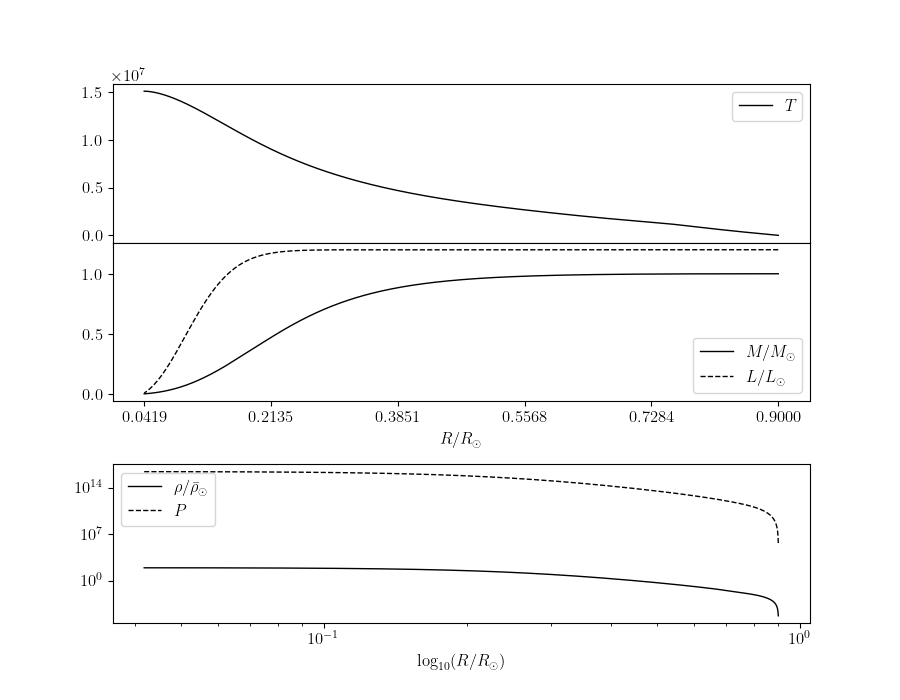
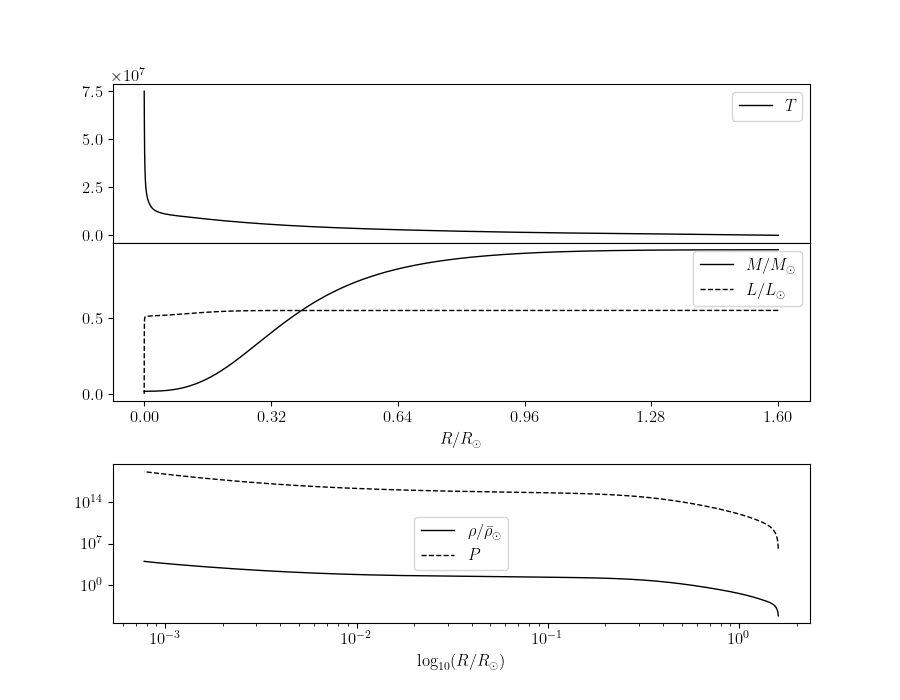
Tried to get CNO in the core, while still having convection in the core.

diff --git a/energy-transport/star_model.py b/energy-transport/star_model.py
@@ -34,7 +34,7 @@ mu = 1. / (2 * X + Y_He3 + (3/4 * Y) + (4/7 * Z_Li7) + (5/7 * Z_Be7) + (4/7 * Z_
 nabla_ad = 2/5 	# Adiabatic temperature gradient for ideal gas
 
 # Initial parameters 
-rho_0 = 1.42e-7 * avgRho_sun * 30
+rho_0 = 1.42e-7 * avgRho_sun * 90
 T_0 = 5770
 P_G = rho_0 / (mu * const.m_u) * const.k * T_0		# Gas pressure 
 P_rad = 4/3 * const.sigma * T_0**4 / const.c 		# Radiative pressure 
@@ -45,7 +45,7 @@ R_0 = R_sun
 
 variable_params = np.array([M_0, R_0, L_0, T_0])
 
-M_fit, R_fit, L_fit, T_fit = variable_params * [1, 0.9, 1.2, .8]
+M_fit, R_fit, L_fit, T_fit = variable_params * [.95, 1.6, .55, 2]
 
 best = Star(M_fit, R_fit, P_0, L_fit, T_fit)
 best.integrate_equtations(p=1e-2, include_cycles=True)
@@ -55,11 +55,15 @@ m, r, P, L, T, rho, nabla_star, nabla_stable, F_rad, F_con, eps, PP1, PP2, PP3, 
 r_plot = r/R_sun
 ticks = np.linspace(r_plot[-1], r_plot[0], 6)
 
-F_con_fraction = F_con / np.sum(F_rad + F_con)
-F_rad_fraction = F_rad / np.sum(F_rad + F_con)
+F_con_fraction = F_con / (F_rad + F_con)
+F_rad_fraction = F_rad / (F_rad + F_con)
 
 eps_max = PP1 + PP2 + PP3 + CNO
-# eps_max += (1 * (eps_max == 0))
+plot_idx = np.where(eps_max != 0)
+PP1_rel = PP1[plot_idx] / eps_max[plot_idx]
+PP2_rel = PP2[plot_idx] / eps_max[plot_idx]
+PP3_rel = PP3[plot_idx] / eps_max[plot_idx]
+CNO_rel = CNO[plot_idx] / eps_max[plot_idx]
 
 L_core = L[-1]/L[0]
 R_core = r[(L < .995 * L[0])][0] / r[0]
@@ -107,17 +111,17 @@ fig.savefig('figures/flux-fraction.pdf')
 fig.savefig('figures/flux-fraction.png')
 
 fig, ax = plt.subplots(figsize=(10, 4))
-ax.plot(r_plot[(eps_max != 0)], np.flip(PP1/eps_max)[(eps_max != 0)], ls='dashed', color='black', label=r'$\epsilon_{PP1}/\epsilon_{max}$')
-ax.plot(r_plot[(eps_max != 0)], np.flip(PP2/eps_max)[(eps_max != 0)], ls='dashdot', color='black', label=r'$\epsilon_{PP2}/\epsilon_{max}$')
-ax.plot(r_plot[(eps_max != 0)], np.flip(PP3/eps_max)[(eps_max != 0)], ls=(0, (5, 10)), color='black', label=r'$\epsilon_{PP3}/\epsilon_{max}$')
-ax.plot(r_plot[(eps_max != 0)], np.flip(CNO/eps_max)[(eps_max != 0)], ls='dotted', color='black', label=r'$\epsilon_{CNO}/\epsilon_{max}$')
-ax.plot(r_plot[(eps_max != 0)], (eps/np.max(eps))[(eps_max != 0)], ls='solid', color='black', label=r'$L/\epsilon_{max}$')
-ax.legend()
-ax.set_xticks(ticks)
+ax.plot(r_plot[plot_idx], PP1_rel, ls='dashed', color='black', label=r'$\epsilon_{PP1}/\epsilon_{max}$')
+ax.plot(r_plot[plot_idx], PP2_rel, ls='dashdot', color='black', label=r'$\epsilon_{PP2}/\epsilon_{max}$')
+ax.plot(r_plot[plot_idx], PP3_rel, ls=(0, (5, 10)), color='black', label=r'$\epsilon_{PP3}/\epsilon_{max}$')
+ax.plot(r_plot[plot_idx], CNO_rel, ls='solid', color='black', label=r'$\epsilon_{CNO}/\epsilon_{max}$')
+ax.plot(r_plot[plot_idx], (eps/np.max(eps))[plot_idx], ls='dotted', color='black', label=r'$\epsilon/\epsilon_{max}$')
 ax2 = ax.twiny()
 ax2.set_xticks(np.linspace(T[0], T[-1], 12))
 ax2.invert_xaxis()
 ax2.set_xlabel('Temperature [K]')
+ax.legend()
+ax.set_xticks(ticks)
 ax.set_xlabel(r'$R/R_\odot$')
 ax.set_ylabel(r'Rel. energy')
 fig.tight_layout()

diff --git a/energy-transport/energy_transport.py b/energy-transport/energy_transport.py
@@ -182,15 +182,15 @@ class Star:
 
 			nabla_stable = 3 * kappa * rho * H_P * L / (64 * const.sigma * T**4 * const.pi * r**2)
 
-		coeffs = [l_m**2/U, 1, K, (self.nabla_ad - nabla_stable)]
-		roots = np.roots(coeffs)
-		real_root_idx = np.where(roots.imag == 0)[0][0]
-		xi = roots[real_root_idx].real
+		# coeffs = [l_m**2/U, 1, K, (self.nabla_ad - nabla_stable)]
+		# roots = np.roots(coeffs)
+		# real_root_idx = np.where(roots.imag == 0)[0][0]
+		# xi = roots[real_root_idx].real
 
-		nabla_star = xi**2 + xi * K + self.nabla_ad
+		# nabla_star = xi**2 + xi * K + self.nabla_ad
 
-		F_rad = 16 * const.sigma * T**4 / (3 * kappa * rho * H_P) * nabla_star
-		F_con = rho * self.c_P * T * np.sqrt(g) * H_P**(-3/2) * (l_m/2)**2 * xi**3
+		# F_rad = 16 * const.sigma * T**4 / (3 * kappa * rho * H_P) * nabla_star
+		# F_con = rho * self.c_P * T * np.sqrt(g) * H_P**(-3/2) * (l_m/2)**2 * xi**3
 
 		star = EnergyProduction(T, rho)
 		star.run_all_cycles()
@@ -240,12 +240,23 @@ class Star:
 
 		if nabla_stable > self.nabla_ad:
 
+
+			coeffs = [l_m**2/U, 1, K, (self.nabla_ad - nabla_stable)]
+			roots = np.roots(coeffs)
+			real_root_idx = np.where(roots.imag == 0)[0][0]
+			xi = roots[real_root_idx].real
+
+			nabla_star = xi**2 + xi * K + self.nabla_ad
+			F_con = rho * self.c_P * T * np.sqrt(g) * H_P**(-3/2) * (l_m/2)**2 * xi**3
 			dT = nabla_star * T/P * dP
 
 		else:
 
 			dT = -3 * kappa * L / (256 * const.pi**2 * const.sigma * r**4 * T**3)
 			nabla_star = nabla_stable
+			F_con = 0.
+
+		F_rad = 16 * const.sigma * T**4 / (3 * kappa * rho * H_P) * nabla_star
 
 		dm_r = r / abs(dr) 
 		dm_P = P / abs(dP) 
